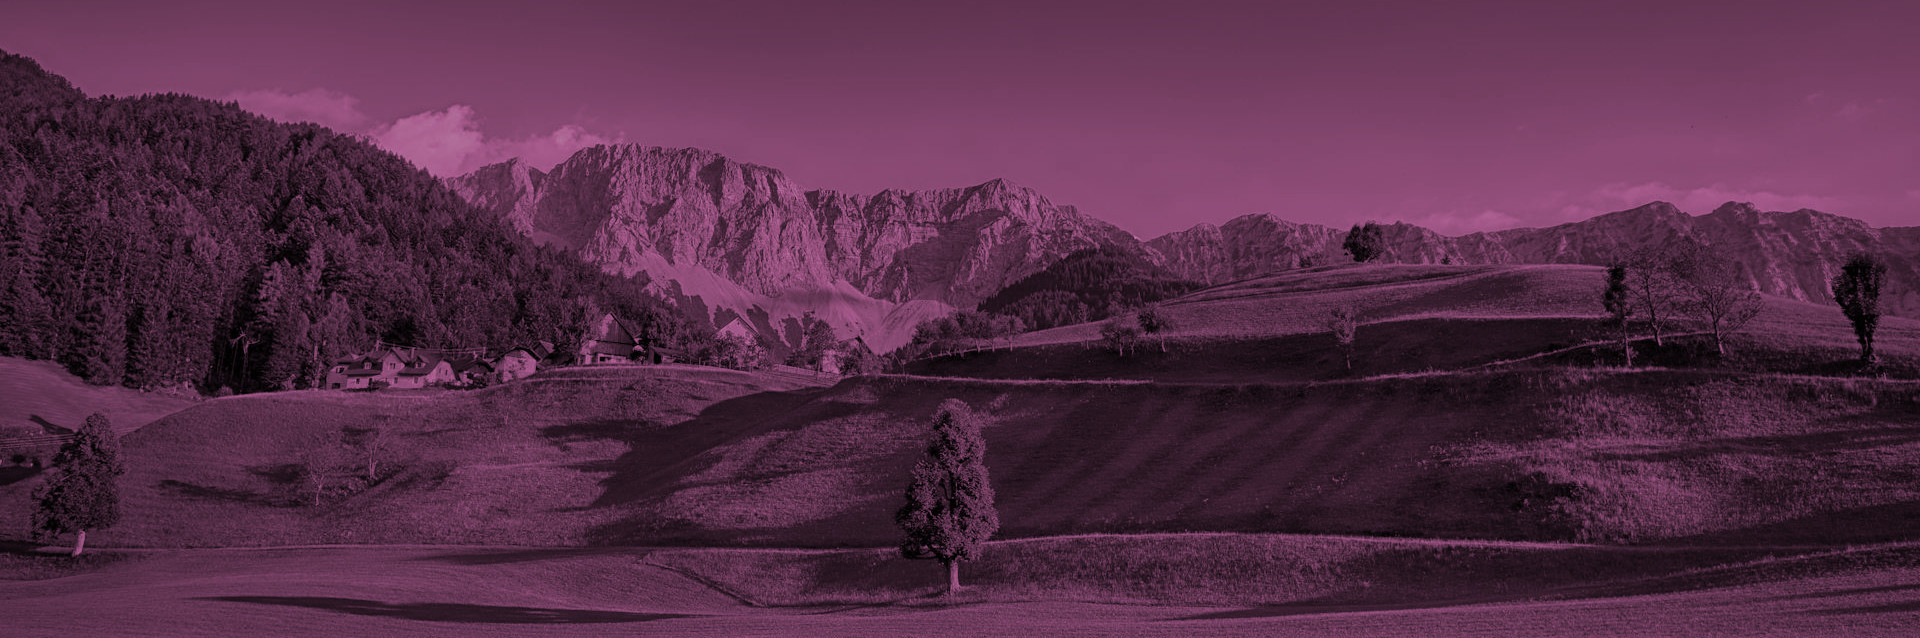
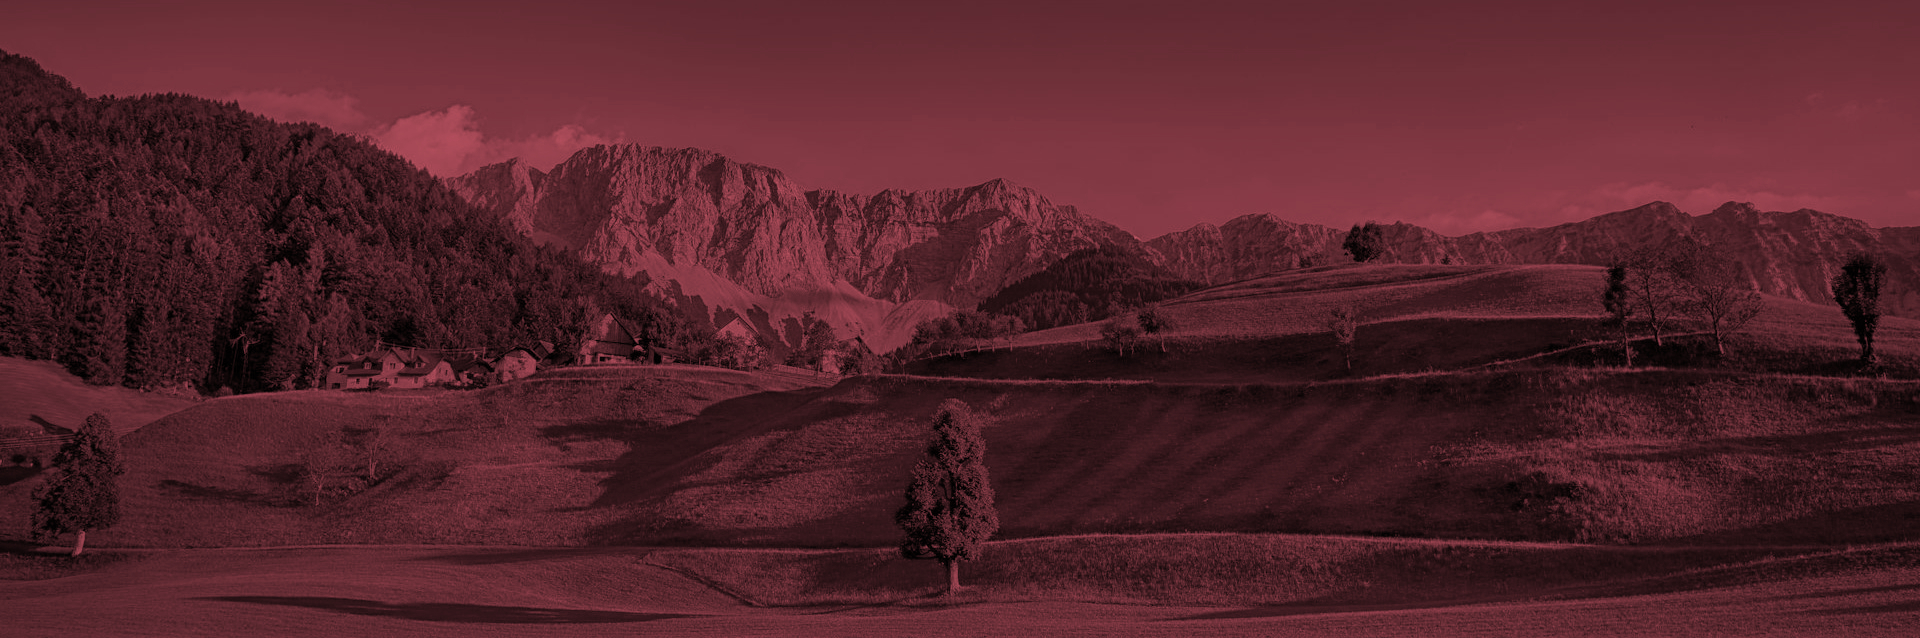
changed the color scheme and changed the H font sizes

diff --git a/styles/styles.css b/styles/styles.css
@@ -5,7 +5,7 @@ body {
   font-size: 1rem;
   font-weight: 300;
   line-height: 1.5;
-  color: #591441;
+  color: #4f1820;
   background-color: #F0F7EE;
 }
 
@@ -15,13 +15,21 @@ h3,
 h4,
 h5,
 h6 {
-	font-family:Verdana, Geneva, Tahoma, sans-serif;
+	font-family:'Cabin', Arial, Helvetica, sans-serif;
 	margin: .5em 0;
-	font-size: 1.75rem;
 }
+
 
 h1 {
 	font-size: 4rem;
+}
+
+h2 {
+  font-size: 1.75rem;
+}
+
+h3 {
+  font-size: 1.5rem;
 }
 
 p {
@@ -59,7 +67,7 @@ aside {
 --------------------------------------------- */
 a,
 a:visited { 
-	color: #003249;
+	color: #BBC5AA;
 	text-decoration: none;
 }
 
@@ -67,7 +75,7 @@ a:hover,
 a:focus,
 a:active {
 	text-decoration: underline;
-  background-color: #003249;
+  background-color: #BBC5AA;
 }
 
 a:focus {
@@ -90,7 +98,7 @@ a:focus {
   flex-direction: row;
   align-items: center;
   justify-content: space-between;
-  background-color: #591441;
+  background-color: #4f1820;
   min-height: 6.5rem;
 }
 
@@ -119,7 +127,7 @@ a:focus {
   padding-right: 1rem;
 }
 
-@media (min-width: 43.5em) {
+@media (min-width: 33.5em) {
   /* enlarge the site logo */
   .site-logo img {
     padding-left: 1rem;
@@ -159,7 +167,7 @@ a:focus {
   /* display: block; */
   /* background image based on a search of Stack Overflow */
   max-width: 100%;
-  background-image: url("../images/fields.jpeg");
+  background-image: url("../images/fields_mountains2.jpeg");
   background-repeat: no-repeat;
   background-size: cover;
   height: 20rem;
@@ -171,13 +179,16 @@ a:focus {
 
 .title-image p {
   font-family: 'Lato', sans-serif;
-  font-size: 2rem;
-  color: #f0f7ee;
+  font-size: 1.7rem;
+  color: #fafafa;
   font-weight:bold;
   text-align: center;
   /* text outline added using code from Kinsta.com */
-  -webkit-text-stroke-width: 1.5px;
-  -webkit-text-stroke-color: #003249;
+  -webkit-text-stroke-width: 1px;
+  -webkit-text-stroke-color: #090C02;
+  text-shadow:  0px 4px #090C02, 
+	  -3px 0px 4px #090C02, 
+	  0px 4px 4px #090C02;
   margin-bottom: 0;
 }
 
@@ -192,21 +203,25 @@ a:focus {
 }
 
 /* change the font size at 696 pixels (43.5em) */
-@media (min-width: 43.5em) {
+@media (min-width: 33.5em) {
   .title-image p {
     font-size: 3rem;
-    -webkit-text-stroke-width: 2px;
+    -webkit-text-stroke-width: 1px;
     /* add a text shadow */
-    text-shadow: 2px 2px 2px #b4b3b3;
+    text-shadow:  0px 6px #090C02, 
+	  -3px 0px 4px #090C02, 
+	  0px 4px 6px #090C02;
   }
 }
 /* change the font size at 800 pixels (50em) */
 @media (min-width: 50em) {
   .title-image p {
     font-size: 4rem;
-    -webkit-text-stroke-width: 3px;
+    -webkit-text-stroke-width: 1px;
     /* add a text shadow */
-    text-shadow: 3px 3px 3px #b4b3b3;
+    text-shadow:  0px 7px #090C02, 
+	  -3px 0px 4px #090C02, 
+	  0px 4px 7px #090C02;
   }
 }
 
@@ -216,8 +231,8 @@ a:focus {
 
 /* Section: About Me */
 .about-content {
-  background-color: #003249;
-  color: #F0F7EE;
+  background-color: #BBC5AA;
+  color: #000000;
   margin: 0;
 }
 
@@ -256,7 +271,7 @@ section-projects {
 	border-style:solid;
   border-bottom-right-radius: 2rem;
   border-bottom-left-radius: 2rem;
-	border-color:#591441;
+	border-color:#4f1820;
   border-width: 1.5px;
   box-shadow: 5px 5px 5px #7c7d7d;
   background-color: #fff;
@@ -310,8 +325,8 @@ section-projects {
   display: block;
 	width: 10rem;
 	padding: 0.75rem;
-	background-color: #003249;
-	color: #fff;
+	background-color: #BBC5AA;
+	color: #090C02 ;
 	text-align: center;
 	font-size: 1.125rem;
   font-weight: 900;
@@ -323,9 +338,9 @@ section-projects {
 }
 
 .contact-me-btn:hover {
-  background-color: #f0f7ee;
-  color: #003249;
-  outline: 3px solid #003249;
+  background-color: #090C02 ;
+  color: #fff;
+  outline: 3px solid #BBC5AA;
 }
 
 /* Footer
@@ -335,7 +350,7 @@ footer {
   text-align: center;
   width: 100%;
   padding: 1rem;
-  background-color: #591441;
+  background-color: #4f1820;
   color: #fff;
   margin-top: 0;
 }
